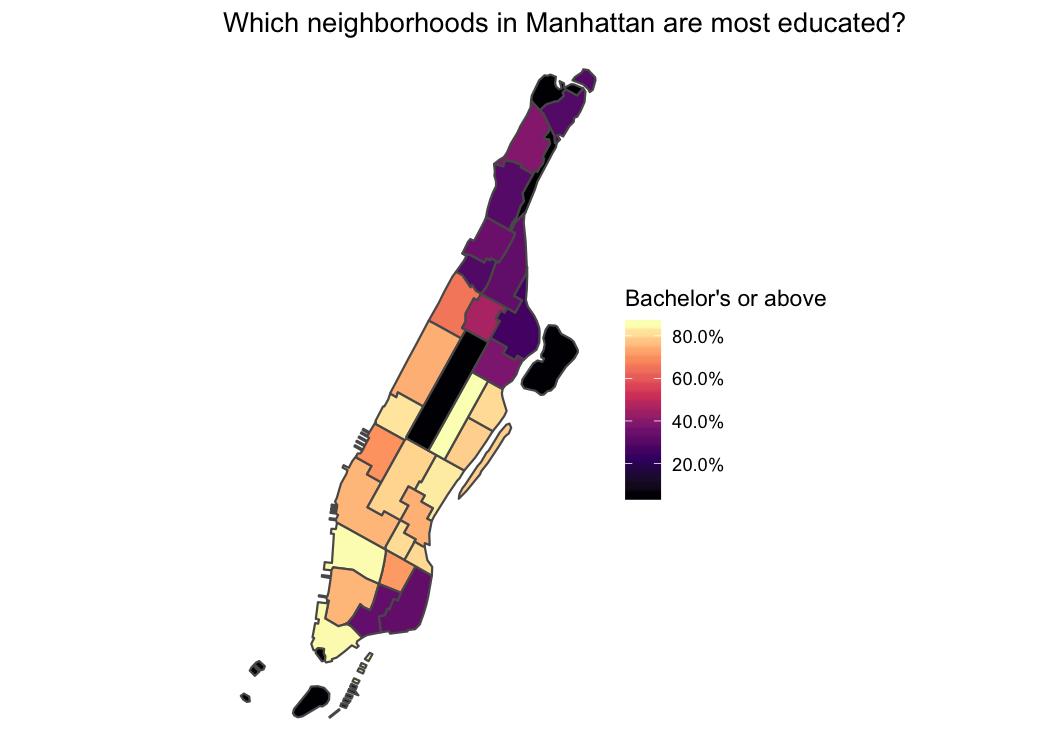
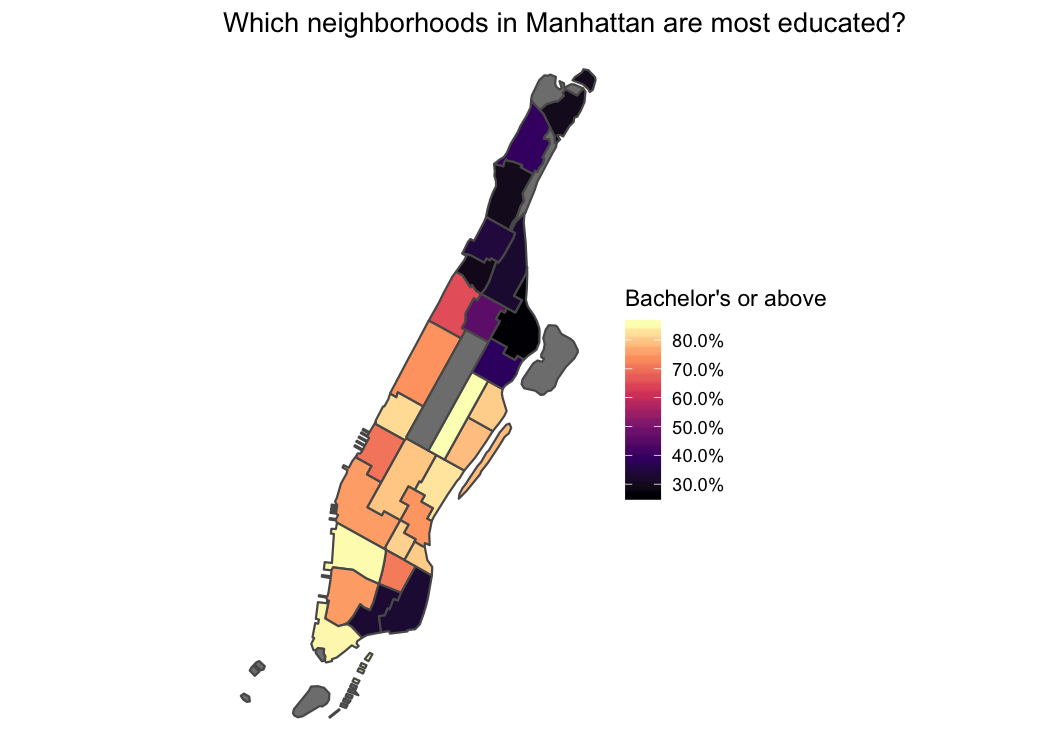
correct nta_acs_data and readme

Changed region(s): [[0.3048, 0.092, 0.579, 0.8587], [0.64, 0.4293, 0.701, 0.6747], [0.2743, 0.92, 0.3352, 0.9507]]

diff --git a/README.md b/README.md
@@ -70,7 +70,7 @@ remotes::install_github("mfherman/nycgeo")
 ### Basic Usage
 
 The most basic usage of `nycgeo` is to get boundaries in the `sf`
-format. Use `nyc_boundaires()` to get your desired geography. To make
+format. Use `nyc_boundaries()` to get your desired geography. To make
 best use of the package, you should also load the `sf` package when
 using `nycgeo`. For these examples, I’ll also load `tidyverse` as this
 will allow us to take advantage of pretty `tibble` printing and will
@@ -89,20 +89,20 @@ nyc_boundaries(geography = "tract")
 #> epsg (SRID):    2263
 #> proj4string:    +proj=lcc +lat_1=41.03333333333333 +lat_2=40.66666666666666 +lat_0=40.16666666666666 +lon_0=-74 +x_0=300000.0000000001 +y_0=0 +ellps=GRS80 +towgs84=0,0,0,0,0,0,0 +units=us-ft +no_defs
 #> # A tibble: 2,166 x 13
-#>    geoid boro_tract_id state_fips county_fips tract_id county_name
-#>    <chr> <chr>         <chr>      <chr>       <chr>    <chr>      
-#>  1 3606… 1000100       36         061         000100   New York   
-#>  2 3606… 1000201       36         061         000201   New York   
-#>  3 3606… 1000202       36         061         000202   New York   
-#>  4 3606… 1000500       36         061         000500   New York   
-#>  5 3606… 1000600       36         061         000600   New York   
-#>  6 3606… 1000700       36         061         000700   New York   
-#>  7 3606… 1000800       36         061         000800   New York   
-#>  8 3606… 1000900       36         061         000900   New York   
-#>  9 3606… 1001001       36         061         001001   New York   
-#> 10 3606… 1001002       36         061         001002   New York   
-#> # ... with 2,156 more rows, and 7 more variables: boro_name <chr>,
-#> #   boro_id <chr>, nta_id <chr>, nta_name <chr>, puma_id <chr>,
+#>    geoid borough_tract_id state_fips county_fips tract_id county_name
+#>    <chr> <chr>            <chr>      <chr>       <chr>    <chr>      
+#>  1 3606… 1000100          36         061         000100   New York   
+#>  2 3606… 1000201          36         061         000201   New York   
+#>  3 3606… 1000202          36         061         000202   New York   
+#>  4 3606… 1000500          36         061         000500   New York   
+#>  5 3606… 1000600          36         061         000600   New York   
+#>  6 3606… 1000700          36         061         000700   New York   
+#>  7 3606… 1000800          36         061         000800   New York   
+#>  8 3606… 1000900          36         061         000900   New York   
+#>  9 3606… 1001001          36         061         001001   New York   
+#> 10 3606… 1001002          36         061         001002   New York   
+#> # ... with 2,156 more rows, and 7 more variables: borough_name <chr>,
+#> #   borough_id <chr>, nta_id <chr>, nta_name <chr>, puma_id <chr>,
 #> #   puma_name <chr>, geometry <MULTIPOLYGON [US_survey_foot]>
 ```
 
@@ -142,8 +142,8 @@ appended to the spatial data. To print a `tibble` of ACS data, simply
 call the data you want.
 
 ``` r
-ntas_acs_data
-#> # A tibble: 195 x 27
+nta_acs_data
+#> # A tibble: 190 x 27
 #>    nta_id pop_total_est pop_total_moe pop_white_est pop_white_moe
 #>    <chr>          <dbl>         <dbl>         <dbl>         <dbl>
 #>  1 BK09           24212          891.         17734          859.
@@ -156,7 +156,7 @@ ntas_acs_data
 #>  8 BK27           32808         1293.         14483          863.
 #>  9 BK28           93114         2087.         38709         1559.
 #> 10 BK29           66055         1757.         29318         1293.
-#> # ... with 185 more rows, and 22 more variables: pop_white_pct_est <dbl>,
+#> # ... with 180 more rows, and 22 more variables: pop_white_pct_est <dbl>,
 #> #   pop_white_pct_moe <dbl>, pop_black_est <dbl>, pop_black_moe <dbl>,
 #> #   pop_black_pct_est <dbl>, pop_black_pct_moe <dbl>, pop_hisp_est <dbl>,
 #> #   pop_hisp_moe <dbl>, pop_hisp_pct_est <dbl>, pop_hisp_pct_moe <dbl>,
@@ -257,25 +257,20 @@ schools_sf <- nyc_schools %>%
     )
 
 nyc_point_poly(schools_sf, "cd") %>% 
-  count(cd_name, boro_cd_id)
-#> Simple feature collection with 60 features and 3 fields
-#> geometry type:  MULTIPOINT
-#> dimension:      XY
-#> bbox:           xmin: 916396.5 ymin: 124365.2 xmax: 1064985 ymax: 268476.4
-#> epsg (SRID):    2263
-#> proj4string:    +proj=lcc +lat_1=41.03333333333333 +lat_2=40.66666666666666 +lat_0=40.16666666666666 +lon_0=-74 +x_0=300000.0000000001 +y_0=0 +ellps=GRS80 +towgs84=0,0,0,0,0,0,0 +units=us-ft +no_defs
-#> # A tibble: 60 x 4
-#>    cd_name        boro_cd_id     n                                 geometry
-#>    <chr>          <chr>      <int>            <MULTIPOINT [US_survey_foot]>
-#>  1 Bronx Communi… 201           69 (1003585 236685.3, 1003631 236498.4, 10…
-#>  2 Bronx Communi… 210           32 (1026709 243584.3, 1027247 245514.1, 10…
-#>  3 Bronx Communi… 211           41 (1020487 252890.4, 1021243 250000.9, 10…
-#>  4 Bronx Communi… 212           36 (1020793 257962.4, 1020959 266963.4, 10…
-#>  5 Bronx Communi… 202           29 (1011396 236619.2, 1011409 237210.2, 10…
-#>  6 Bronx Communi… 203           72 (1009859 239268.8, 1009929 238798.2, 10…
-#>  7 Bronx Communi… 204           67 (1003566 243240.8, 1004050 244001.9, 10…
-#>  8 Bronx Communi… 205           43 (1006177 250083.5, 1006725 249559.7, 10…
-#>  9 Bronx Communi… 206           55 (1012222 247610, 1012310 247057.8, 1012…
-#> 10 Bronx Communi… 207           34 (1009189 252317.2, 1010176 252453.8, 10…
+  st_set_geometry(NULL) %>% 
+  count(cd_name, borough_cd_id)
+#> # A tibble: 60 x 3
+#>    cd_name                     borough_cd_id     n
+#>    <chr>                       <chr>         <int>
+#>  1 Bronx Community District 1  201              69
+#>  2 Bronx Community District 10 210              32
+#>  3 Bronx Community District 11 211              41
+#>  4 Bronx Community District 12 212              36
+#>  5 Bronx Community District 2  202              29
+#>  6 Bronx Community District 3  203              72
+#>  7 Bronx Community District 4  204              67
+#>  8 Bronx Community District 5  205              43
+#>  9 Bronx Community District 6  206              55
+#> 10 Bronx Community District 7  207              34
 #> # ... with 50 more rows
 ```

diff --git a/NEWS.md b/NEWS.md
@@ -1,0 +1,4 @@
+# nycgeo 0.1.0.9000
+
+* Added a `NEWS.md` file to track changes to the package.
+* Updated `nta_acs_data` to include properly aggregated data from `tract_acs_data`. Also, remove NTAs without population (e.g. parks, cemetaries, airports) from `tract_acs_data`.
